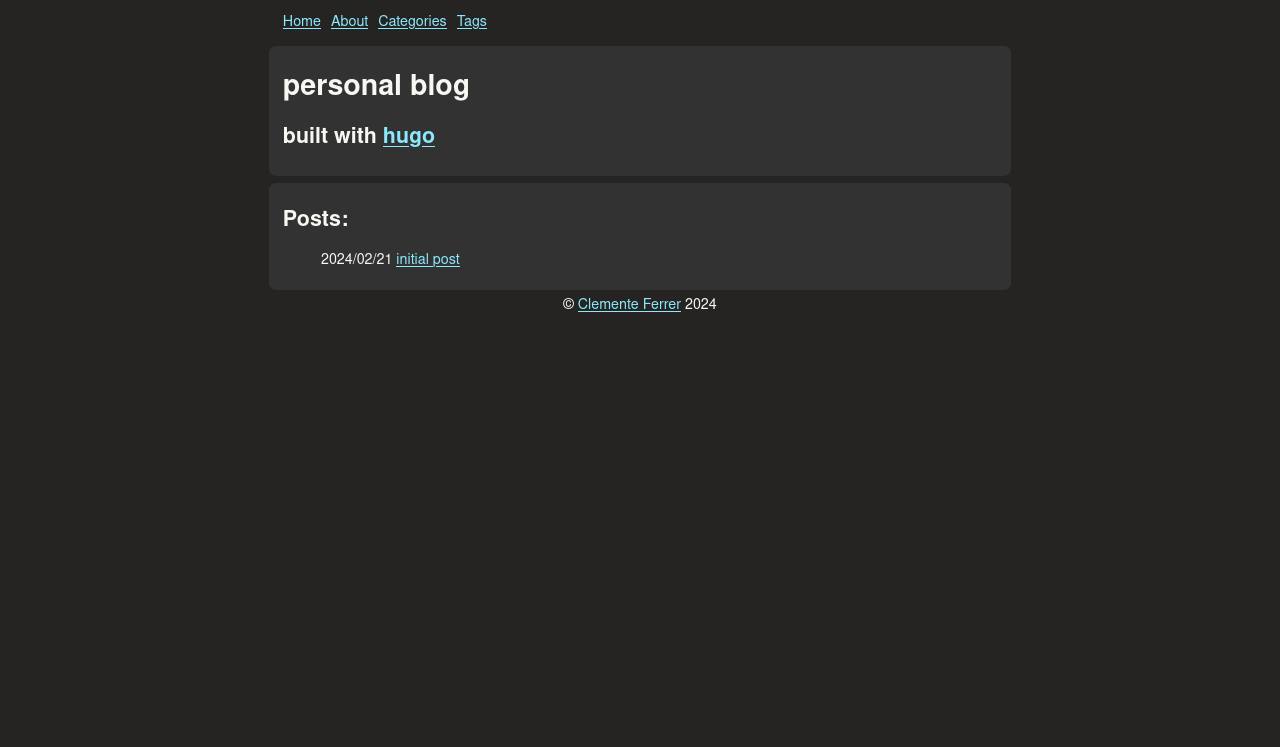
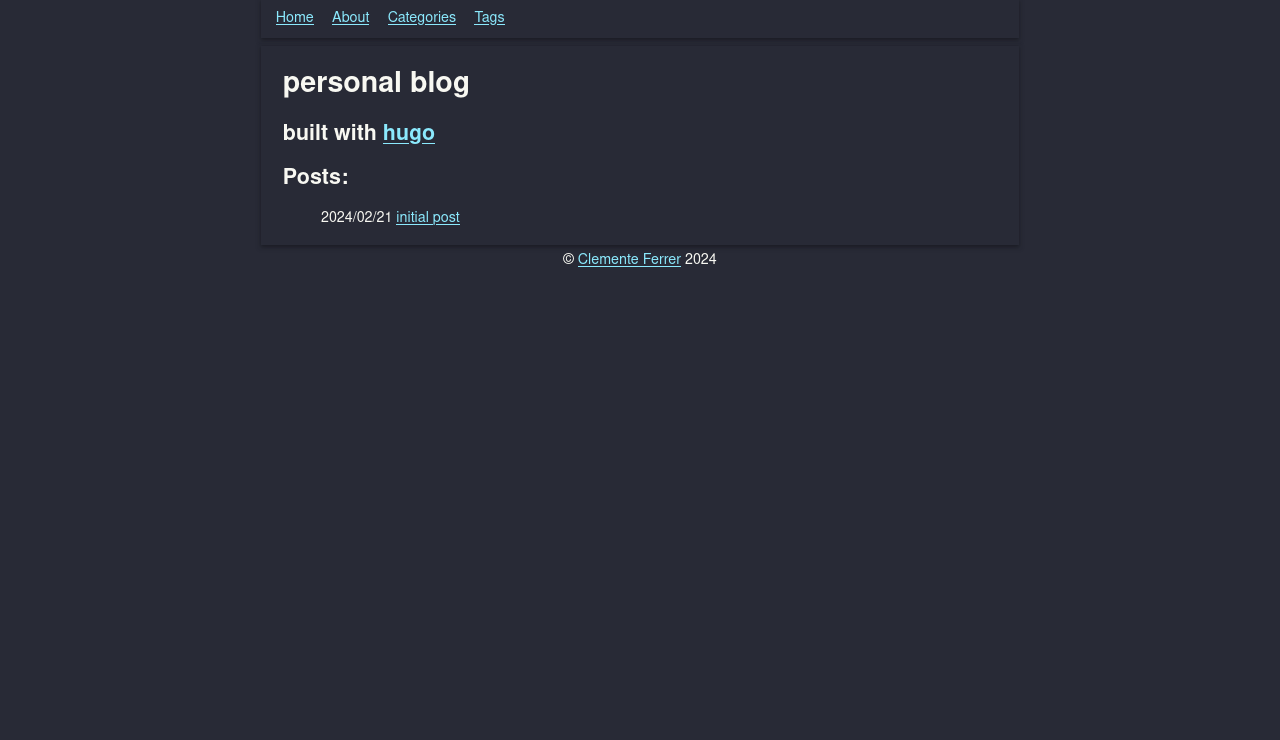
remove rounded cards, update readme

diff --git a/public/css/theme.css b/public/css/theme.css
@@ -16,7 +16,7 @@
     --nav_item_margin: 0.3em;
     --content_max_width: 50em;
     --border_style: 0.1em solid;
-    --border_radius: 0.5em;
+    --border_radius: 0em;
     --image_max_size: 35em;
     --box_shadow: rgba(0, 0, 0, 0.12) 0em 0.1em 0.3em, rgba(0, 0, 0, 0.24) 0em 0.1em 0.2em;
 }

diff --git a/static/css/theme.css b/static/css/theme.css
@@ -16,7 +16,7 @@
     --nav_item_margin: 0.3em;
     --content_max_width: 50em;
     --border_style: 0.1em solid;
-    --border_radius: 0.5em;
+    --border_radius: 0em;
     --image_max_size: 35em;
     --box_shadow: rgba(0, 0, 0, 0.12) 0em 0.1em 0.3em, rgba(0, 0, 0, 0.24) 0em 0.1em 0.2em;
 }

diff --git a/readme.md b/readme.md
@@ -2,6 +2,6 @@
 
 ## built with [hugo](https://github.com/gohugoio/hugo)
 
-### hosted at <https://clementef.github.io/blog>
+### hosted at <clementef.com>
 
 ![demo image](static/img/demo_img.png)
